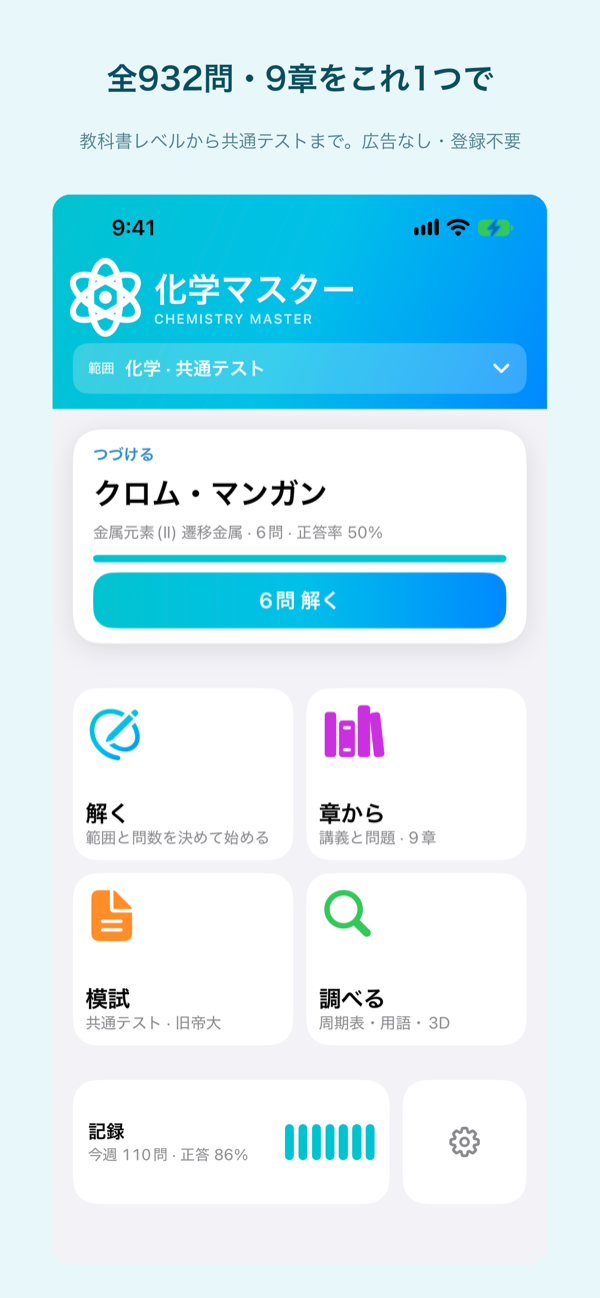
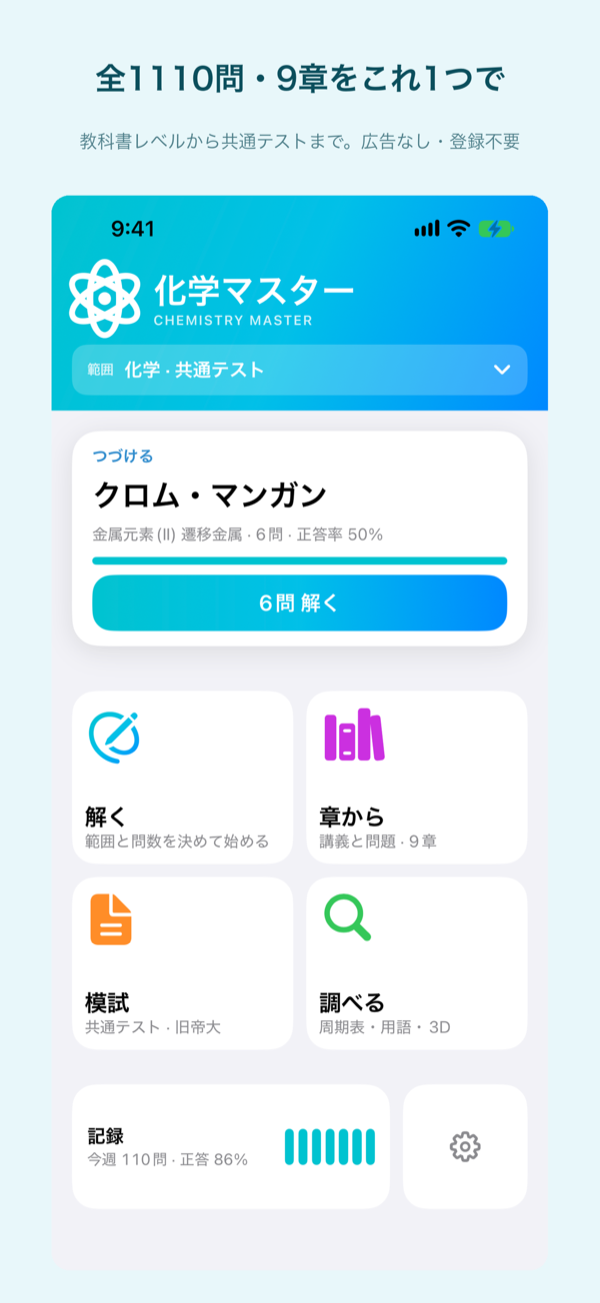
Update listed apps to current App Store state (9 apps)
Add English Master, Sugoku Junior and Informatics Master; refresh
versions, copy and screenshots; 9-column tab rail; updates by date.

diff --git a/index.html b/index.html
@@ -13,7 +13,7 @@
 <a href="#works" data-project="0" class="collection-card"><div class="card-preview"><img src="assets/sugoku-screen.png" alt="" width="1284" height="2778"></div><div class="card-title"><img src="assets/sugoku-icon.png" alt="" width="38" height="38"><span>数極<small>高校数学</small></span><b>↗</b></div></a>
 <a href="#works" data-project="1" class="collection-card"><div class="card-preview"><img src="assets/physics-screen.png" alt="" width="1206" height="2622"></div><div class="card-title"><img src="assets/physics-icon.png" alt="" width="38" height="38"><span>物理マスター<small>高校物理</small></span><b>↗</b></div></a>
 <a href="#works" data-project="4" class="collection-card"><div class="card-preview"><img src="assets/kobunzo-screen.jpg" alt="" width="600" height="1298"></div><div class="card-title"><img src="assets/kobunzo-icon.png" alt="" width="38" height="38"><span>古文蔵<small>高校国語</small></span><b>↗</b></div></a>
-<a href="#works" class="collection-card more"><div class="card-preview"><div class="more-icons"><img src="assets/chemistry-icon.png" alt="" width="40" height="40"><img src="assets/biology-icon.png" alt="" width="40" height="40"><img src="assets/kateki-icon.png" alt="" width="40" height="40"></div><ul><li>化学マスター</li><li>生物マスター</li><li>カテキ</li><li>英語マスター<small>開発中</small></li><li>数極 中学<small>開発中</small></li></ul></div><div class="card-title"><span>ほか5本<small>全8本を見る</small></span><b>↗</b></div></a>
+<a href="#works" class="collection-card more"><div class="card-preview"><div class="more-icons"><img src="assets/chemistry-icon.png" alt="" width="40" height="40"><img src="assets/biology-icon.png" alt="" width="40" height="40"><img src="assets/english-icon.png" alt="" width="40" height="40"></div><ul><li>化学マスター</li><li>生物マスター</li><li>英語マスター</li><li>数極 中学</li><li>情報マスター</li><li>カテキ</li></ul></div><div class="card-title"><span>ほか6本<small>全9本を見る</small></span><b>↗</b></div></a>
 </div><p>カードを選ぶと、その作品の紹介へ。</p></div>
 </div></section>
 <section class="works" id="works" aria-labelledby="works-title">
@@ -21,8 +21,8 @@
 <div class="works-heading"><h2 id="works-title">つくったもの。</h2><p>学ぶためのアプリと、教えるためのアプリ。<br>気になる作品を、選んでみてください。</p></div>
 <div class="project-console">
 <div class="project-nav" id="project-nav">
-<div class="project-groups" aria-hidden="true"><span class="group-learn"><i>学ぶ <b>05</b></i></span><span class="group-teach"><i>教える <b>01</b></i></span><span class="group-dev"><i>開発中 <b>02</b></i></span></div>
-<div class="project-tabs" role="tablist" aria-label="作品一覧"><button type="button" role="tab" id="tab-0" aria-selected="true" aria-controls="project-panel" data-select="0"><span class="tab-top"><img src="assets/sugoku-icon.png" alt="" width="28" height="28" loading="lazy"></span><strong>数極</strong><small>高校数学</small></button><button type="button" role="tab" id="tab-1" aria-selected="false" aria-controls="project-panel" tabindex="-1" data-select="1"><span class="tab-top"><img src="assets/physics-icon.png" alt="" width="28" height="28" loading="lazy"></span><strong>物理マスター</strong><small>高校物理</small></button><button type="button" role="tab" id="tab-2" aria-selected="false" aria-controls="project-panel" tabindex="-1" data-select="2"><span class="tab-top"><img src="assets/chemistry-icon.png" alt="" width="28" height="28" loading="lazy"></span><strong>化学マスター</strong><small>高校化学</small></button><button type="button" role="tab" id="tab-3" aria-selected="false" aria-controls="project-panel" tabindex="-1" data-select="3"><span class="tab-top"><img src="assets/biology-icon.png" alt="" width="28" height="28" loading="lazy"></span><strong>生物マスター</strong><small>高校生物</small></button><button type="button" role="tab" id="tab-4" aria-selected="false" aria-controls="project-panel" tabindex="-1" data-select="4"><span class="tab-top"><img src="assets/kobunzo-icon.png" alt="" width="28" height="28" loading="lazy"></span><strong>古文蔵</strong><small>高校国語</small></button><button type="button" role="tab" id="tab-5" aria-selected="false" aria-controls="project-panel" tabindex="-1" data-select="5"><span class="tab-top"><img src="assets/kateki-icon.png" alt="" width="28" height="28" loading="lazy"></span><strong>カテキ</strong><small>指導管理</small></button><button type="button" role="tab" id="tab-6" aria-selected="false" aria-controls="project-panel" tabindex="-1" data-select="6"><span class="tab-top"><i class="tab-ph" aria-hidden="true"></i></span><strong>英語マスター</strong><small>英語学習</small></button><button type="button" role="tab" id="tab-7" aria-selected="false" aria-controls="project-panel" tabindex="-1" data-select="7"><span class="tab-top"><i class="tab-ph" aria-hidden="true"></i></span><strong>数極 中学</strong><small>中学数学</small></button></div>
+<div class="project-groups" aria-hidden="true"><span class="group-learn"><i>学ぶ <b>08</b></i></span><span class="group-teach"><i>教える <b>01</b></i></span></div>
+<div class="project-tabs" role="tablist" aria-label="作品一覧"><button type="button" role="tab" id="tab-0" aria-selected="true" aria-controls="project-panel" data-select="0"><span class="tab-top"><img src="assets/sugoku-icon.png" alt="" width="28" height="28" loading="lazy"></span><strong>数極</strong><small>高校数学</small></button> <button type="button" role="tab" id="tab-1" aria-selected="false" aria-controls="project-panel" tabindex="-1" data-select="1"><span class="tab-top"><img src="assets/physics-icon.png" alt="" width="28" height="28" loading="lazy"></span><strong>物理マスター</strong><small>高校物理</small></button> <button type="button" role="tab" id="tab-2" aria-selected="false" aria-controls="project-panel" tabindex="-1" data-select="2"><span class="tab-top"><img src="assets/chemistry-icon.png" alt="" width="28" height="28" loading="lazy"></span><strong>化学マスター</strong><small>高校化学</small></button> <button type="button" role="tab" id="tab-3" aria-selected="false" aria-controls="project-panel" tabindex="-1" data-select="3"><span class="tab-top"><img src="assets/biology-icon.png" alt="" width="28" height="28" loading="lazy"></span><strong>生物マスター</strong><small>高校生物</small></button> <button type="button" role="tab" id="tab-4" aria-selected="false" aria-controls="project-panel" tabindex="-1" data-select="4"><span class="tab-top"><img src="assets/kobunzo-icon.png" alt="" width="28" height="28" loading="lazy"></span><strong>古文蔵</strong><small>高校国語</small></button> <button type="button" role="tab" id="tab-5" aria-selected="false" aria-controls="project-panel" tabindex="-1" data-select="5"><span class="tab-top"><img src="assets/english-icon.png" alt="" width="28" height="28" loading="lazy"></span><strong>英語マスター</strong><small>英語学習</small></button> <button type="button" role="tab" id="tab-6" aria-selected="false" aria-controls="project-panel" tabindex="-1" data-select="6"><span class="tab-top"><img src="assets/junior-icon.png" alt="" width="28" height="28" loading="lazy"></span><strong>数極 中学</strong><small>中学数学</small></button> <button type="button" role="tab" id="tab-7" aria-selected="false" aria-controls="project-panel" tabindex="-1" data-select="7"><span class="tab-top"><img src="assets/informatics-icon.png" alt="" width="28" height="28" loading="lazy"></span><strong>情報マスター</strong><small>情報Ⅰ</small></button> <button type="button" role="tab" id="tab-8" aria-selected="false" aria-controls="project-panel" tabindex="-1" data-select="8"><span class="tab-top"><img src="assets/kateki-icon.png" alt="" width="28" height="28" loading="lazy"></span><strong>カテキ</strong><small>指導管理</small></button></div>
 </div>
 <p class="project-swipe" aria-hidden="true">左右にスクロールして、ほかの作品へ <span>→</span></p>
 <div id="project-panel" role="tabpanel" aria-labelledby="tab-0" tabindex="0">
@@ -34,7 +34,7 @@
 <figure class="song-player"><div class="song-frame"><video controls playsinline preload="none" poster="assets/q-lyric-poster.jpg" width="1280" height="720" aria-label="数極のイメージソング「Q」のリリックビデオ" aria-describedby="song-note"><source src="assets/q-lyric-video.mp4" type="video/mp4"><p>このブラウザでは動画を再生できません。<a href="assets/q-lyric-video.mp4">動画ファイル（MP4）を開く</a></p></video></div><figcaption class="song-meta"><span>再生時間 3:38</span><span>音声あり</span></figcaption></figure>
 <p class="song-note" id="song-note">別の字幕ファイルはありません。再生ボタンを押すまで、動画は読み込まれません。</p>
 </section>
-<section class="updates" id="updates" aria-labelledby="updates-title"><div class="subsection-heading"><h2 id="updates-title">進化の記録。</h2><p>新しいアプリと、アップデートのお知らせ。</p></div><div class="update-grid"><article class="update-card"><div class="update-meta mono"><span>古文蔵 / v1.0</span><time datetime="2026-09-21">2026.09.21</time></div><h3>古文蔵を、<br>公開しました。</h3><p>古文9作品を縦書きで読み、音読できる古文学習アプリです。定期テスト・共通テスト対策の演習104問と、古典文法の講義を収録しています。</p><a href="https://apps.apple.com/jp/app/%E5%8F%A4%E6%96%87%E8%94%B5/id6811652501" target="_blank" rel="noopener noreferrer">App Storeで見る <span>↗</span></a></article><article class="update-card"><div class="update-meta mono"><span>化学マスター / v2.0.0</span><time datetime="2026-09-19">2026.09.19</time></div><h3>ホーム画面を、<br>新しく。</h3><p>ホーム画面を刷新し、「きょうの1セット」を追加。記録画面では、共通テストの推定点と習得マップを確認できるようになりました。</p><a href="https://apps.apple.com/jp/app/%E5%8C%96%E5%AD%A6%E3%83%9E%E3%82%B9%E3%82%BF%E3%83%BC/id6788745347" target="_blank" rel="noopener noreferrer">アップデートを見る <span>↗</span></a></article><article class="update-card"><div class="update-meta mono"><span>物理マスター / v1.4.1</span><time datetime="2026-09-16">2026.09.16</time></div><h3>物理の全範囲を、<br>もっと広い画面で。</h3><p>「原子」を追加し、物理基礎と物理の全範囲を収録。問題は1,045問に。iPadでは、左側のメニューから章や分野へ移動しやすくなりました。</p><a href="https://apps.apple.com/jp/app/%E7%89%A9%E7%90%86%E3%83%9E%E3%82%B9%E3%82%BF%E3%83%BC/id6796362607" target="_blank" rel="noopener noreferrer">アップデートを見る <span>↗</span></a></article><article class="update-card"><div class="update-meta mono"><span>数極 / v2.0.2</span><time datetime="2026-09-08">2026.09.08</time></div><h3>指数・対数関数の演習を、<br>PDFでも。</h3><p>問題冊子と解答解説を、表示・保存・共有できるようになりました。冊子を見ながら解答を入力すると、15点満点で採点。この単元演習は無料です。</p><a href="https://apps.apple.com/jp/app/%E6%95%B0%E6%A5%B5/id6788627418" target="_blank" rel="noopener noreferrer">アップデートを見る <span>↗</span></a></article></div></section>
+<section class="updates" id="updates" aria-labelledby="updates-title"><div class="subsection-heading"><h2 id="updates-title">進化の記録。</h2><p>新しいアプリと、アップデートのお知らせ。</p></div><div class="update-grid"><article class="update-card"><div class="update-meta mono"><span>数極 中学 / v1.0</span><time datetime="2026-10-13">2026.10.13</time></div><h3>数極 中学を、<br>公開しました。</h3><a href="https://apps.apple.com/jp/app/%E6%95%B0%E6%A5%B5-%E4%B8%AD%E5%AD%A6/id6821298365" target="_blank" rel="noopener noreferrer">App Storeで見る <span>↗</span></a></article><article class="update-card"><div class="update-meta mono"><span>化学マスター / v2.0.3</span><time datetime="2026-10-12">2026.10.12</time></div><h3>模試の解説を、<br>追加しました。</h3><p>共通テスト模試の解説を追加しました。</p><a href="https://apps.apple.com/jp/app/%E5%8C%96%E5%AD%A6%E3%83%9E%E3%82%B9%E3%82%BF%E3%83%BC/id6788745347" target="_blank" rel="noopener noreferrer">アップデートを見る <span>↗</span></a></article><article class="update-card"><div class="update-meta mono"><span>数極 / v2.1.3</span><time datetime="2026-10-12">2026.10.12</time></div><h3>共通テスト教材を、<br>59冊に。</h3><p>数学Ⅰ・Aと数学Ⅱ・B・Cの単元別教材を28冊追加し、計59冊に。両科目の模試を各5回、計10回収録し、教材と模試の図・冊子PDFを作り直しました。</p><a href="https://apps.apple.com/jp/app/%E6%95%B0%E6%A5%B5/id6788627418" target="_blank" rel="noopener noreferrer">アップデートを見る <span>↗</span></a></article><article class="update-card"><div class="update-meta mono"><span>カテキ / v1.2.1</span><time datetime="2026-10-12">2026.10.12</time></div><h3>先生のホームに、<br>今月のカレンダー。</h3><p>画面全体のデザインを新しくし、先生のホームの先頭に今月のカレンダーを表示。授業の詳細と保護者のホームも整えました。</p><a href="https://apps.apple.com/jp/app/%E3%82%AB%E3%83%86%E3%82%AD/id6789912177" target="_blank" rel="noopener noreferrer">アップデートを見る <span>↗</span></a></article><article class="update-card"><div class="update-meta mono"><span>生物マスター / v2.0.0</span><time datetime="2026-10-11">2026.10.11</time></div><h3>模試と単元演習を、<br>追加しました。</h3><p>共通テスト模試と単元別演習を追加しました。模試は生物と生物基礎、単元別演習は全111問です。どちらも無料です。</p><a href="https://apps.apple.com/jp/app/%E7%94%9F%E7%89%A9%E3%83%9E%E3%82%B9%E3%82%BF%E3%83%BC/id6796595184" target="_blank" rel="noopener noreferrer">アップデートを見る <span>↗</span></a></article><article class="update-card"><div class="update-meta mono"><span>英語マスター / v1.0.2</span><time datetime="2026-10-11">2026.10.11</time></div><h3>iPadで、冊子と訳を<br>並べて読めるように。</h3><p>問題冊子は横向きで2頁を並べて表示。全訳・台本も、問題冊子と訳を左右に並べて読めるようになりました。リスニングの通し模試第2・3回と大問別演習30題を追加しました。</p><a href="https://apps.apple.com/jp/app/%E8%8B%B1%E8%AA%9E%E3%83%9E%E3%82%B9%E3%82%BF%E3%83%BC/id6816360716" target="_blank" rel="noopener noreferrer">アップデートを見る <span>↗</span></a></article><article class="update-card"><div class="update-meta mono"><span>古文蔵 / v1.0.1</span><time datetime="2026-10-05">2026.10.05</time></div><h3>古典文法を、<br>12回の講義と72問に。</h3><p>古典文法に助動詞の講義と確認問題を追加。講義12回・確認問題72問になりました。26章に朗読音声を付け、縦書きでは朗読に合わせてページが進みます。</p><a href="https://apps.apple.com/jp/app/%E5%8F%A4%E6%96%87%E8%94%B5/id6811652501" target="_blank" rel="noopener noreferrer">アップデートを見る <span>↗</span></a></article><article class="update-card"><div class="update-meta mono"><span>情報マスター / v1.0</span><time datetime="2026-10-05">2026.10.05</time></div><h3>情報マスターを、<br>公開しました。</h3><a href="https://apps.apple.com/jp/app/%E6%83%85%E5%A0%B1%E3%83%9E%E3%82%B9%E3%82%BF%E3%83%BC/id6818530141" target="_blank" rel="noopener noreferrer">App Storeで見る <span>↗</span></a></article><article class="update-card"><div class="update-meta mono"><span>物理マスター / v2.0.0</span><time datetime="2026-10-04">2026.10.04</time></div><h3>iPadの学び方を、<br>新しく。</h3><p>iPadのホームと章の一覧を刷新。模試の冊子に書き込めるようになりました。電卓は模試の提出後の見直しで使えます。iPhoneの講義はページ送りになりました。</p><a href="https://apps.apple.com/jp/app/%E7%89%A9%E7%90%86%E3%83%9E%E3%82%B9%E3%82%BF%E3%83%BC/id6796362607" target="_blank" rel="noopener noreferrer">アップデートを見る <span>↗</span></a></article></div></section>
 <section id="about" class="about" aria-labelledby="about-title"><div class="about-main"><div><h2 id="about-title">「こんなものが、<br>あったら。」</h2></div><div class="about-copy"><p>はじまりは、いつも小さな思いつき。<br>学びを面白く。教える毎日を軽やかに。<br>日常の中に、新しい選択肢を。</p><p>i wantは、その思いつきを<br>手に取れるアプリにしていきます。</p></div></div></section>
 <section class="support" id="support" aria-labelledby="support-title"><div class="support-grid"><div><h2 id="support-title">困ったときも、<br>次の「ほしい」も。</h2><p>使い方のご質問や不具合のご連絡は、<br>各アプリのサポートページへ。</p></div><div class="support-list"><a href="https://ottub.github.io/sugoku/support.html" target="_blank" rel="noopener noreferrer"><span>数極のサポート</span><b>↗</b></a><a href="https://ottub.github.io/physics/support.html" target="_blank" rel="noopener noreferrer"><span>物理マスターのサポート</span><b>↗</b></a><a href="https://ottub.github.io/chemistry/support.html" target="_blank" rel="noopener noreferrer"><span>化学マスターのサポート</span><b>↗</b></a><a href="https://ottub.github.io/kobun-zo-site/support.html" target="_blank" rel="noopener noreferrer"><span>古文蔵のサポート</span><b>↗</b></a><a href="https://ottub.github.io/kateki-site/support.html" target="_blank" rel="noopener noreferrer"><span>カテキのサポート</span><b>↗</b></a></div></div></section>
 <footer class="site-footer"><div class="footer-main"><a class="brand" href="#top" aria-label="i want トップへ"><span>i want</span></a><p>好奇心を、動く体験に。</p><a href="#top" class="backtop">ページの先頭へ ↑</a></div><div class="footer-bottom"><span>© 2026 i want</span><nav aria-label="フッターナビゲーション"><a href="#works">作品</a><a href="#updates">更新情報</a><a href="#about">i wantについて</a><a href="#support">サポート</a></nav></div></footer>

diff --git a/projects.js b/projects.js
@@ -14,7 +14,7 @@ window.IWANT_PROJECTS = [
     "features": [
       [
         "範囲に合わせて",
-        "数学I・A・II・B・C・IIIの幅広い単元を演習。"
+        "数学I・A・II・B・C・IIIの幅広い単元と、共通テスト形式の教材59冊を演習。"
       ],
       [
         "難しさを選んで",
@@ -27,7 +27,7 @@ window.IWANT_PROJECTS = [
     ],
     "url": "https://apps.apple.com/jp/app/%E6%95%B0%E6%A5%B5/id6788627418",
     "support": "https://ottub.github.io/sugoku/support.html",
-    "version": "v2.0.2",
+    "version": "v2.1.3",
     "state": "App Storeで公開中",
     "price": "無料 / アプリ内課金・広告あり",
     "kind": "学ぶ",
@@ -64,7 +64,7 @@ window.IWANT_PROJECTS = [
     ],
     "url": "https://apps.apple.com/jp/app/%E7%89%A9%E7%90%86%E3%83%9E%E3%82%B9%E3%82%BF%E3%83%BC/id6796362607",
     "support": "https://ottub.github.io/physics/support.html",
-    "version": "v1.4.1",
+    "version": "v2.0.0",
     "state": "App Storeで公開中",
     "price": "無料 / 広告・アプリ内課金なし",
     "kind": "学ぶ",
@@ -82,12 +82,12 @@ window.IWANT_PROJECTS = [
     "headline": "化学基礎から、\n高分子まで。",
     "icon": "assets/chemistry-icon.png",
     "screen": "assets/chemistry-screen.png",
-    "screenAlt": "化学マスターの掲載用画像。「全932問・9章をこれ1つで」の見出しと、続きの分野、解く・章から・模試・調べる・記録のメニューが並ぶホーム画面。",
+    "screenAlt": "化学マスターのApp Store掲載画像。「全1,110問・9章」の見出しと、続きの分野、解く・章から・模試・調べる・記録のメニューが並ぶホーム画面。",
     "screenNote": "アプリの掲載用画像 / ホーム画面",
     "features": [
       [
         "解いて身につける",
-        "全932問。図表を使った問題も収録。"
+        "全1,110問。図表を使った問題も収録。"
       ],
       [
         "続ける仕組み",
@@ -100,7 +100,7 @@ window.IWANT_PROJECTS = [
     ],
     "url": "https://apps.apple.com/jp/app/%E5%8C%96%E5%AD%A6%E3%83%9E%E3%82%B9%E3%82%BF%E3%83%BC/id6788745347",
     "support": "https://ottub.github.io/chemistry/support.html",
-    "version": "v2.0.0",
+    "version": "v2.0.3",
     "state": "App Storeで公開中",
     "price": "無料 / アプリ内課金あり（化学マスター Pro 買い切り500円）",
     "kind": "学ぶ",
@@ -135,10 +135,10 @@ window.IWANT_PROJECTS = [
       ]
     ],
     "url": "https://apps.apple.com/jp/app/%E7%94%9F%E7%89%A9%E3%83%9E%E3%82%B9%E3%82%BF%E3%83%BC/id6796595184",
-    "support": "",
-    "version": "v1.4",
+    "support": "https://ottub.github.io/biology/support.html",
+    "version": "v2.0.0",
     "state": "App Storeで公開中",
-    "price": "無料 / 広告・アプリ内課金なし",
+    "price": "無料 / アプリ内課金あり（生物マスター Pro 買い切り500円）・広告なし",
     "kind": "学ぶ",
     "field": "高校生物",
     "devText": "",
@@ -167,12 +167,12 @@ window.IWANT_PROJECTS = [
       ],
       [
         "文法を押さえる",
-        "古典文法（活用・助動詞）の講義5回と、確認問題30問。"
+        "古典文法の講義12回と確認問題72問。"
       ]
     ],
     "url": "https://apps.apple.com/jp/app/%E5%8F%A4%E6%96%87%E8%94%B5/id6811652501",
     "support": "https://ottub.github.io/kobun-zo-site/support.html",
-    "version": "v1.0",
+    "version": "v1.0.1",
     "state": "App Storeで公開中",
     "price": "無料・広告あり / アプリ内課金あり（広告非表示 買い切り300円）",
     "kind": "学ぶ",
@@ -182,11 +182,122 @@ window.IWANT_PROJECTS = [
     "group": "learn"
   },
   {
+    "name": "英語マスター",
+    "en": "ENGLISH MASTER",
+    "category": "LANGUAGE / LEARNING",
+    "label": "06 / LANGUAGE",
+    "copy": "英単語・イディオム・文法から、共通テストのリーディング・リスニングまで。\n覚えた語は、翌日以降の復習でも確かめられます。",
+    "note": "iPhone・iPad / iOS 18.0以降",
+    "headline": "英語の基礎から、\n共通テストへ。",
+    "icon": "assets/english-icon.png",
+    "screen": "assets/english-screen.png",
+    "screenAlt": "英語マスターのApp Store掲載画像。リーディング模試の問題冊子と解答欄を並べた画面。",
+    "screenNote": "App Store掲載画像 / リーディング模試",
+    "features": [
+      [
+        "単語を覚える",
+        "CEFR-J A1〜B1の4,447語と、イディオム300件。"
+      ],
+      [
+        "文法を学ぶ",
+        "26単元の講義と確認問題78問。"
+      ],
+      [
+        "模試で解く",
+        "リーディング40題・リスニング30題の大問別演習と通し模試。"
+      ]
+    ],
+    "url": "https://apps.apple.com/jp/app/%E8%8B%B1%E8%AA%9E%E3%83%9E%E3%82%B9%E3%82%BF%E3%83%BC/id6816360716",
+    "support": "https://ottub.github.io/englishmaster/support.html",
+    "version": "v1.0.2",
+    "state": "App Storeで公開中",
+    "price": "無料 / アプリ内課金あり（有料版・買い切り）・広告あり",
+    "kind": "学ぶ",
+    "field": "英語学習",
+    "devText": "",
+    "devNote": "",
+    "group": "learn"
+  },
+  {
+    "name": "数極 中学",
+    "en": "SUGOKU JUNIOR",
+    "category": "MATHEMATICS / LEARNING",
+    "label": "07 / MATHEMATICS",
+    "copy": "中学1〜3年の数学を、単元と難易度を選んで練習。\n解いた問題を振り返り、学習の進み具合を確かめられます。",
+    "note": "iPhone・iPad / iOS 17.0以降",
+    "headline": "中学数学を、\n自分のペースで。",
+    "icon": "assets/junior-icon.png",
+    "screen": "assets/junior-screen.png",
+    "screenAlt": "数極 中学のApp Store掲載画像。学年を選び、単元と難易度を選択して練習を始める画面。",
+    "screenNote": "App Store掲載画像 / 単元選択",
+    "features": [
+      [
+        "単元から練習",
+        "数と式、関数、図形、データの活用から選べます。"
+      ],
+      [
+        "間違いを振り返る",
+        "解いた問題の確認やブックマーク、学習記録を使えます。"
+      ],
+      [
+        "極位戦に挑戦",
+        "参加を選ぶと、シーズンごとの極位戦でレートに挑戦できます。"
+      ]
+    ],
+    "url": "https://apps.apple.com/jp/app/%E6%95%B0%E6%A5%B5-%E4%B8%AD%E5%AD%A6/id6821298365",
+    "support": "https://ottub.github.io/sugoku-junior/support.html",
+    "version": "v1.0",
+    "state": "App Storeで公開中",
+    "price": "無料 / アプリ内課金あり（買い切りプレミアム）・広告なし",
+    "kind": "学ぶ",
+    "field": "中学数学",
+    "devText": "",
+    "devNote": "",
+    "group": "learn"
+  },
+  {
+    "name": "情報マスター",
+    "en": "INFORMATION MASTER",
+    "category": "INFORMATICS / LEARNING",
+    "label": "08 / INFORMATICS",
+    "copy": "情報Ⅰの講義・単元演習・大問型セットから、60分の共通テスト模試まで。\nプログラムとデータ分析も、手を動かして確かめられます。",
+    "note": "iPhone / iOS 18.0以降",
+    "headline": "情報Ⅰを、\n講義から模試まで。",
+    "icon": "assets/informatics-icon.png",
+    "screen": "assets/informatics-screen.png",
+    "screenAlt": "情報マスターのApp Store掲載画像。データ分析トレーナーの設問と散布図を表示した画面。",
+    "screenNote": "App Store掲載画像 / データ分析トレーナー",
+    "features": [
+      [
+        "講義と要点確認",
+        "情報Ⅰの四つの領域・20単元を学べます。"
+      ],
+      [
+        "プログラムを実行",
+        "1行ずつ実行し、変数や配列の変化を表で確かめられます。"
+      ],
+      [
+        "60分模試に挑戦",
+        "100点満点の模試を、問題冊子とマーク式の解答欄で解けます。"
+      ]
+    ],
+    "url": "https://apps.apple.com/jp/app/%E6%83%85%E5%A0%B1%E3%83%9E%E3%82%B9%E3%82%BF%E3%83%BC/id6818530141",
+    "support": "https://ottub.github.io/informatics/support.html",
+    "version": "v1.0",
+    "state": "App Storeで公開中",
+    "price": "無料 / アプリ内課金・広告なし",
+    "kind": "学ぶ",
+    "field": "情報Ⅰ",
+    "devText": "",
+    "devNote": "",
+    "group": "learn"
+  },
+  {
     "name": "カテキ",
     "category": "TUTORING / MANAGEMENT",
-    "label": "06 / TUTORING",
+    "label": "09 / TUTORING",
     "copy": "家庭教師のための指導管理アプリ。\n生徒・指導日・成績・月謝を、まとめて管理。",
-    "note": "iPhone・iPad / iOS 17.0以降",
+    "note": "iPhone / iOS 17.0以降",
     "headline": "指導の予定も、\n月謝の計算も。",
     "icon": "assets/kateki-icon.png",
     "screen": "assets/kateki-screen.png",
@@ -208,7 +319,7 @@ window.IWANT_PROJECTS = [
     ],
     "url": "https://apps.apple.com/jp/app/%E3%82%AB%E3%83%86%E3%82%AD/id6789912177",
     "support": "https://ottub.github.io/kateki-site/support.html",
-    "version": "v1.1.8",
+    "version": "v1.2.1",
     "state": "App Storeで公開中",
     "price": "無料（無料プランは先生側の画面に広告あり） / アプリ内課金あり（買い切り3,000円・月額1,980円・年額19,000円）",
     "kind": "教える",
@@ -216,65 +327,5 @@ window.IWANT_PROJECTS = [
     "devText": "",
     "devNote": "",
     "group": "teach"
-  },
-  {
-    "name": "英語マスター",
-    "en": "ENGLISH MASTER",
-    "category": "LANGUAGE / IN DEVELOPMENT",
-    "label": "07 / LANGUAGE",
-    "copy": "単語・文法から、共通テスト演習へ。\nつまずいても立ち戻れる英語学習アプリを、開発中です。",
-    "note": "iOS向けに開発中",
-    "headline": "わからない、を\n次の一歩に変える。",
-    "icon": "",
-    "screen": "",
-    "screenAlt": "",
-    "screenNote": "開発コンセプト / 実際のアプリ画面ではありません",
-    "features": [
-      [
-        "覚える",
-        "単語やイディオムを確かめて、学習の土台をつくる。"
-      ],
-      [
-        "演習する",
-        "文法から共通テスト形式の問題へ、理解をつなげる。"
-      ],
-      [
-        "立ち戻れる",
-        "つまずいたときの基礎レスキューと、復習の仕組みを開発中。"
-      ]
-    ],
-    "url": "",
-    "support": "",
-    "version": "IN DEVELOPMENT",
-    "state": "開発中",
-    "price": "開発中のため、内容は変更される場合があります。",
-    "kind": "学ぶ",
-    "field": "英語学習",
-    "devText": "単語から、\n共通テストへ。",
-    "devNote": "英語マスター / 開発中",
-    "group": "dev"
-  },
-  {
-    "name": "数極 中学",
-    "category": "MATHEMATICS / IN DEVELOPMENT",
-    "label": "08 / MATHEMATICS",
-    "copy": "中学数学のための数極を、開発しています。",
-    "note": "App Storeでは未公開",
-    "headline": "中学数学を、\n数極の手ざわりで。",
-    "icon": "",
-    "screen": "",
-    "screenAlt": "",
-    "screenNote": "開発中 / 実際のアプリ画面ではありません",
-    "features": [],
-    "url": "",
-    "support": "",
-    "version": "IN DEVELOPMENT",
-    "state": "開発中",
-    "price": "開発中のため、内容は変更される場合があります。",
-    "kind": "学ぶ",
-    "field": "中学数学",
-    "devText": "数極、\n中学数学へ。",
-    "devNote": "数極 中学 / 開発中",
-    "group": "dev"
   }
 ];

diff --git a/apps.css b/apps.css
@@ -4,18 +4,17 @@
 .project-nav{position:relative;border-bottom:1px solid var(--line);overflow-x:auto;overflow-y:hidden;overscroll-behavior-x:contain;scrollbar-width:thin;scrollbar-color:#70eda855 transparent}
 .project-nav::-webkit-scrollbar{height:4px}
 .project-nav::-webkit-scrollbar-thumb{background:#70eda855}
-.project-console .project-groups,.project-console .project-tabs{display:grid;grid-template-columns:repeat(8,minmax(0,1fr));border-bottom:0}
+.project-console .project-groups,.project-console .project-tabs{display:grid;grid-template-columns:repeat(9,minmax(0,1fr));border-bottom:0}
 .project-groups{background:#0a130e;border-bottom:1px solid var(--line)!important}
-.project-groups>span{grid-column:1/6;display:flex;align-items:center;min-height:38px;padding:0 18px;border-right:1px solid var(--line)}
-.project-groups>span.group-teach{grid-column:6/7}
-.project-groups>span.group-dev{grid-column:7/9;border-right:0}
+.project-groups>span{grid-column:1/9;display:flex;align-items:center;min-height:38px;padding:0 18px;border-right:1px solid var(--line)}
+.project-groups>span.group-teach{grid-column:9/10}
 .project-groups>span:after{content:'';flex:1;height:1px;margin-left:14px;background:linear-gradient(90deg,#70eda840,transparent)}
 .project-groups i{font-style:normal;font-weight:700;font-size:12px;letter-spacing:.12em;color:#c9dccf;position:sticky;left:18px;white-space:nowrap}
 .project-groups b{font:500 10px Poppins,sans-serif;letter-spacing:.06em;color:var(--green);margin-left:8px}
 
 .project-console .project-tabs button{display:flex;flex-direction:column;align-items:flex-start;justify-content:flex-start;gap:0;min-height:118px;padding:16px 16px 15px;font-size:14px;letter-spacing:.02em;line-height:1.45;border-right:1px solid var(--line);min-width:0}
 .project-console .project-tabs button:last-child{border-right:0}
-.project-console .project-tabs button:nth-child(5),.project-console .project-tabs button:nth-child(6){border-right:1px solid #70eda855}
+.project-console .project-tabs button:nth-child(8){border-right:1px solid #70eda855}
 .project-tabs .tab-top{display:flex;align-items:center;justify-content:space-between;gap:6px;width:100%;min-height:30px;margin:0 0 12px;color:inherit}
 .project-tabs .tab-top img{width:30px;height:30px;border-radius:8px;border:1px solid #a4c9ae42;display:block;flex-shrink:0}
 .project-tabs .tab-ph{display:block;width:30px;height:30px;border-radius:8px;border:1px dashed #d1bf7466;background:repeating-linear-gradient(135deg,#d1bf7412 0 4px,transparent 4px 8px);flex-shrink:0}
@@ -60,13 +59,13 @@
 
 /* Tablet and phone: the rail scrolls sideways inside the console; the page never does. */
 @media(max-width:1080px){
- .project-console .project-groups,.project-console .project-tabs{grid-template-columns:repeat(8,138px);width:max-content}
+ .project-console .project-groups,.project-console .project-tabs{grid-template-columns:repeat(9,138px);width:max-content}
  .project-swipe{display:flex;align-items:center;justify-content:flex-end;gap:10px;margin:0;padding:9px 14px;border-bottom:1px solid var(--line);font-size:11px;letter-spacing:.04em;color:#9cb3a3;background:#0a130e}
  .project-swipe span{color:var(--green);font-size:15px}
 }
 
 @media(max-width:700px){
- .project-console .project-groups,.project-console .project-tabs{grid-template-columns:repeat(8,124px)}
+ .project-console .project-groups,.project-console .project-tabs{grid-template-columns:repeat(9,124px)}
  .project-groups>span{min-height:34px;padding:0 12px}
  .project-groups i{font-size:11px;left:12px}
  .project-console .project-tabs button{min-height:104px;padding:13px 12px 12px;font-size:13px;display:flex;flex-direction:column;align-items:flex-start;justify-content:flex-start;gap:0}
@@ -97,7 +96,7 @@
 }
 
 @media(max-width:360px){
- .project-console .project-groups,.project-console .project-tabs{grid-template-columns:repeat(8,116px)}
+ .project-console .project-groups,.project-console .project-tabs{grid-template-columns:repeat(9,116px)}
  .project-console .project-tabs button{font-size:12px}
  .collection-card:not(.more) .card-preview{height:140px}
  .collection-card:not(.more) .card-preview>img{width:74px}
